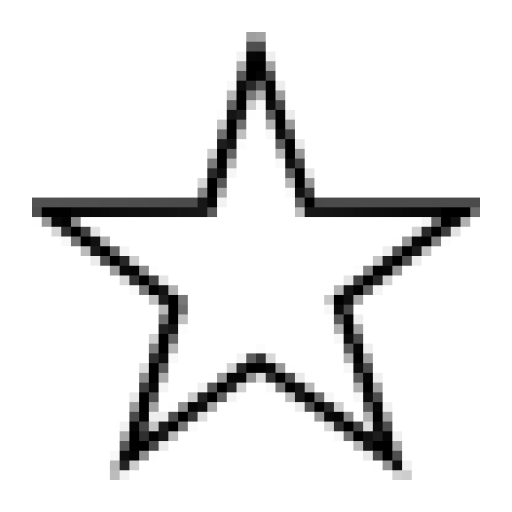
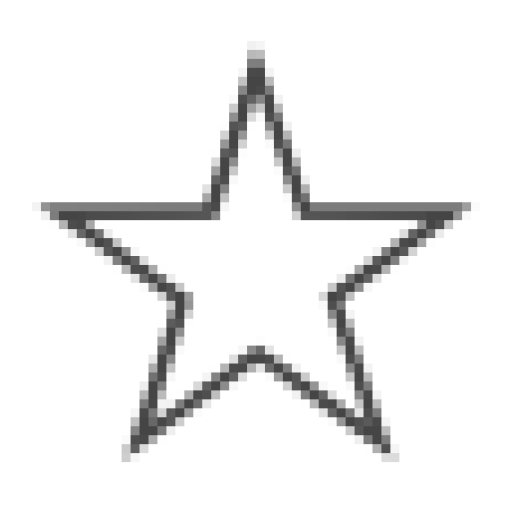
favorite basically works

Changed region(s): [[0.0625, 0.0625, 0.9375, 0.9375]]

diff --git a/app/src/main/java/com/example/daniel/mts/StopFragment.java b/app/src/main/java/com/example/daniel/mts/StopFragment.java
@@ -33,6 +33,7 @@ public class StopFragment extends Fragment {
     private TextView directionName;
     private TextView prediction;
     private ImageButton refresh;
+    private ImageButton favorite;
     private View view;
     private String stopId;
     private String lineId;
@@ -107,11 +108,18 @@ public class StopFragment extends Fragment {
         directionName = (TextView) myInflatedView.findViewById(R.id.direction);
         prediction = (TextView) myInflatedView.findViewById(R.id.prediction);
         refresh = (ImageButton) myInflatedView.findViewById(R.id.refresh);
+        favorite = (ImageButton) myInflatedView.findViewById(R.id.favorite);
 
         refresh.setOnClickListener(new View.OnClickListener() {
             @Override
             public void onClick(View v) {
                 updatePrediction(false);
+            }
+        });
+        favorite.setOnClickListener(new View.OnClickListener() {
+            @Override
+            public void onClick(View v) {
+                switchFavorite();
             }
         });
 
@@ -132,6 +140,13 @@ public class StopFragment extends Fragment {
         updatePrediction(true);
         prediction.setTextColor(Color.BLACK);
 
+        if(stop.favorite) {
+            favorite.setImageResource(R.mipmap.favorite);
+        }
+        else {
+            favorite.setImageResource(R.mipmap.unfavorite);
+        }
+
         return myInflatedView;
     }
 
@@ -149,7 +164,7 @@ public class StopFragment extends Fragment {
     }
 
     // b should always be false unless you want to force update the time
-    public void updatePrediction(boolean b) {
+    private void updatePrediction(boolean b) {
         if(!b) {
             long currentTime = date.getTime() - lastTime;
             if (currentTime < REFRESH_LIMIT) {
@@ -185,6 +200,16 @@ public class StopFragment extends Fragment {
 
         lastTime = date.getTime();
 
+    }
+
+    private void switchFavorite() {
+        stop.switchFavorite();
+        if(stop.favorite) {
+            favorite.setImageResource(R.mipmap.favorite);
+        }
+        else {
+            favorite.setImageResource(R.mipmap.unfavorite);
+        }
     }
 
     /**

diff --git a/app/src/main/java/com/example/daniel/mts/FavFragment.java b/app/src/main/java/com/example/daniel/mts/FavFragment.java
@@ -42,13 +42,8 @@ public class FavFragment extends ListFragment implements OnFragmentInteractionLi
     private static final String ARG_PARAM1 = "param1";
     private static final String ARG_PARAM2 = "param2";
 
-
     // limit of predictions to show
     private static final int LIMIT = 5;
-    private Stop stop;
-
-
-
 
     // TODO: Rename and change types of parameters
     private String mParam1;
@@ -91,10 +86,6 @@ public class FavFragment extends ListFragment implements OnFragmentInteractionLi
             mParam1 = getArguments().getString(ARG_PARAM1);
             mParam2 = getArguments().getString(ARG_PARAM2);
         }
-        stop = new Stop("MTS_10374",  "MTS_150");
-        stop.switchFavorite();
-
-
     }
 
 
@@ -218,7 +209,6 @@ public class FavFragment extends ListFragment implements OnFragmentInteractionLi
             TextView stopText = (TextView)view.findViewById(R.id.favStopName);
             TextView dirName = (TextView)view.findViewById(R.id.favStopDir);
             TextView prediction = (TextView)view.findViewById(R.id.favPrediction);
-            ImageButton noRefresh = null;
 
 
             GradientDrawable lineCircleBg = (GradientDrawable)line.getBackground();
@@ -274,8 +264,6 @@ public class FavFragment extends ListFragment implements OnFragmentInteractionLi
             } else {
                 view.setBackgroundColor(Color.parseColor("#EFF5FF"));
             }
-// no
-            Log.d("help","help me push/pull");
 
 
             return view;

diff --git a/app/src/main/java/com/example/daniel/mts/RemoteFetch.java b/app/src/main/java/com/example/daniel/mts/RemoteFetch.java
@@ -418,7 +418,7 @@ public class RemoteFetch {
 
                 if(!routeId.equals(lineOfficalId)) continue;
                 if(!departureEnabled) continue;
-                if(!directionName.equals(dirName)) continue;
+                if(!directionName.equals(dirName) && !(routeId.equals("MTS_201") || routeId.equals("MTS_202")))continue;
 
                 long predicted = time.getLong("predictedDepartureTime");
 
